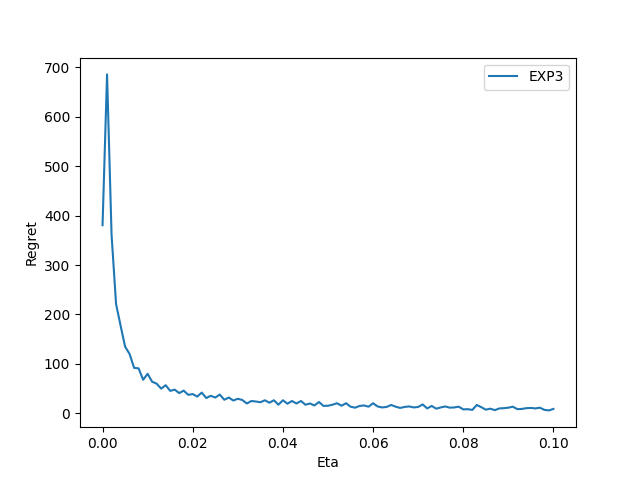
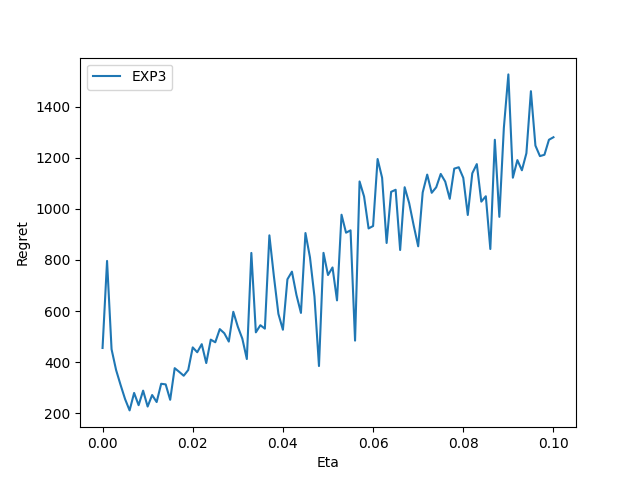
new

diff --git a/BA_ch_11/BA11.py b/BA_ch_11/BA11.py
@@ -46,7 +46,7 @@ class BernouliBandit(object):
 def main():
     # Set up the experiment.
     # we have a two armed bernoulli bandit with means 0.5 and 0.5 + delta
-    delta = 0.5
+    delta = 0.05
     bandit = BernouliBandit(delta)
     print("Setup complete. Running experiments...")
     # plot the regret of the UCB and EXP3 algorithms
